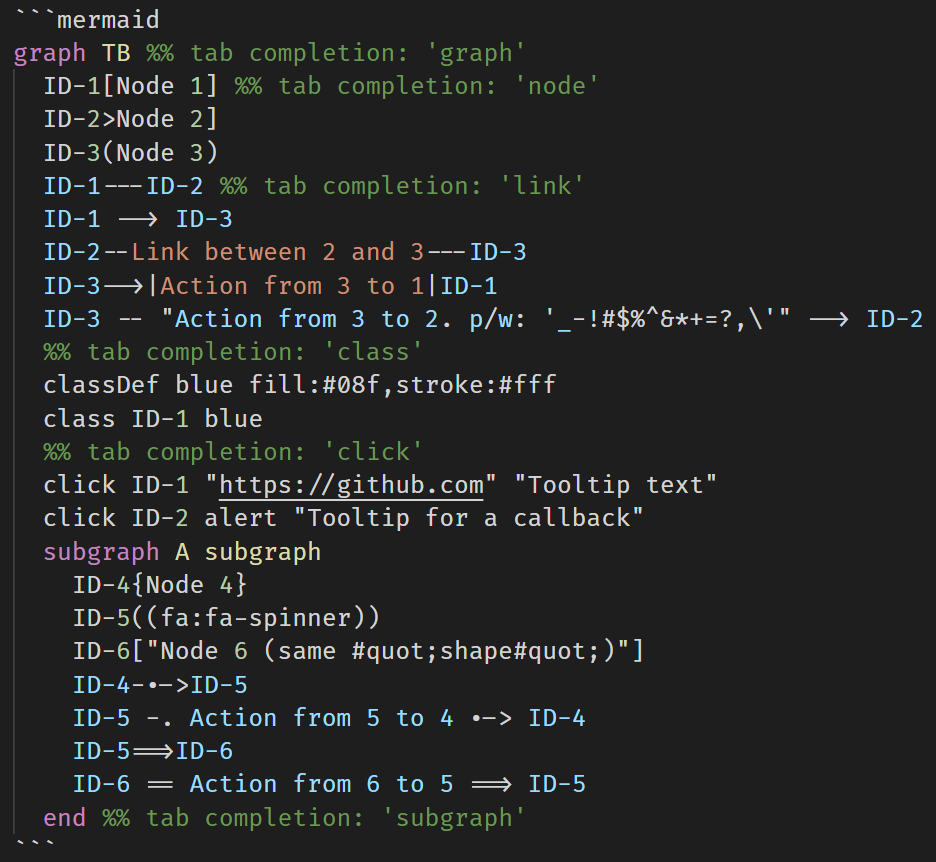
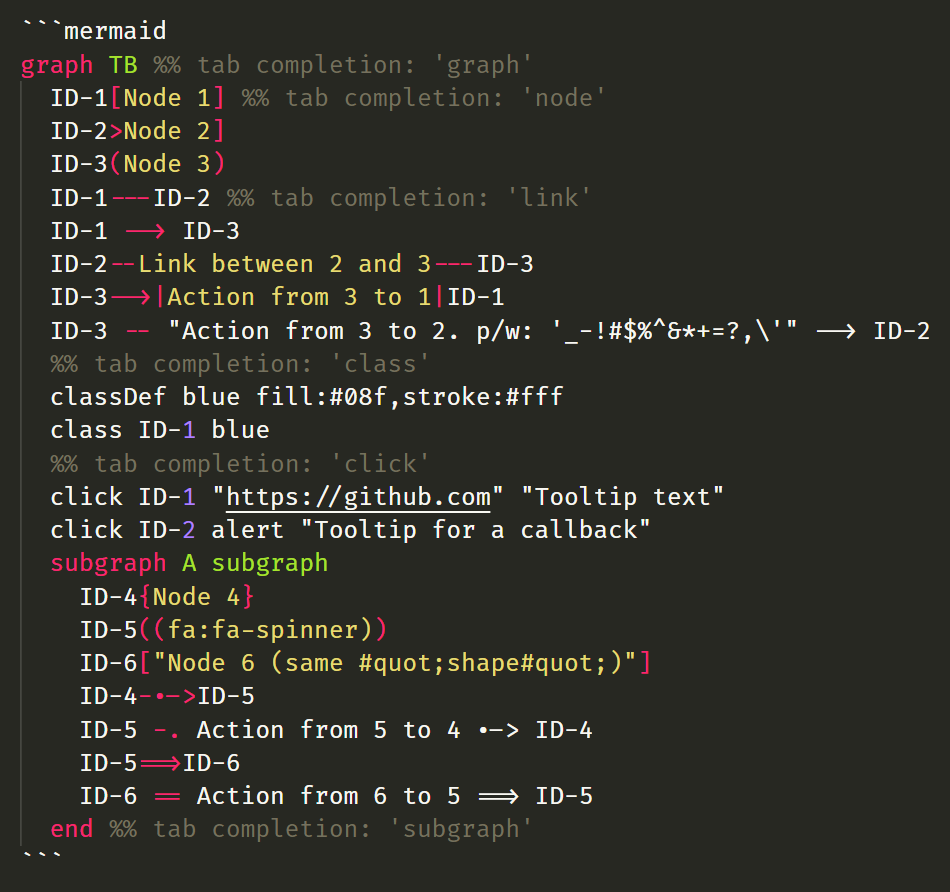
docs: update screenshot with new results
Use monokai theme in screenshot as it better handles highlighting
Update README with current progress

diff --git a/README.md b/README.md
@@ -40,7 +40,11 @@ graph TB %% tab completion: 'graph'
 - [x] Entity---Entity (livne )
 - [x] Entity---Text---Entity
 - [x] Entity-->|Text|Entity
-- [ ] Entity[Text]
+- [ ] Entity-->|Special Chars|Entity
+- [x] Entity[Text]
+- [ ] classDef
+- [ ] class
+- [ ] click 
 
 ## Initial Idea
 
